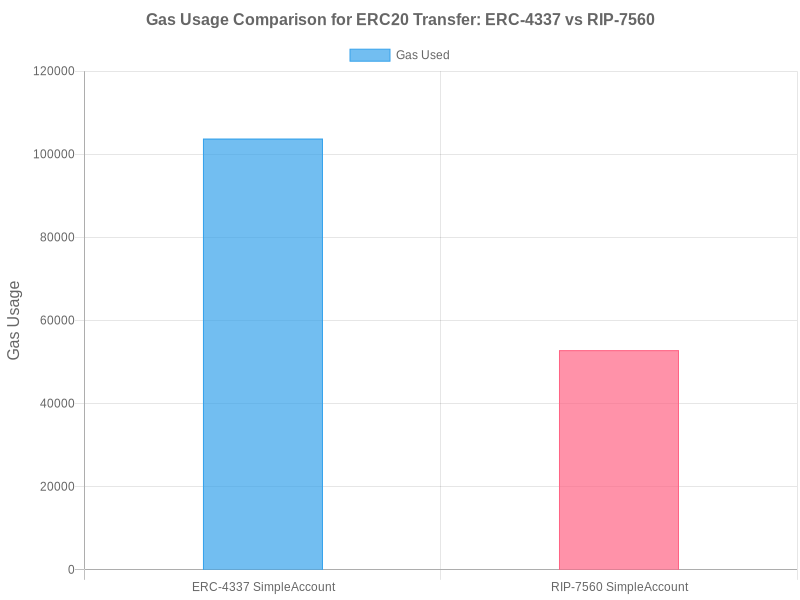
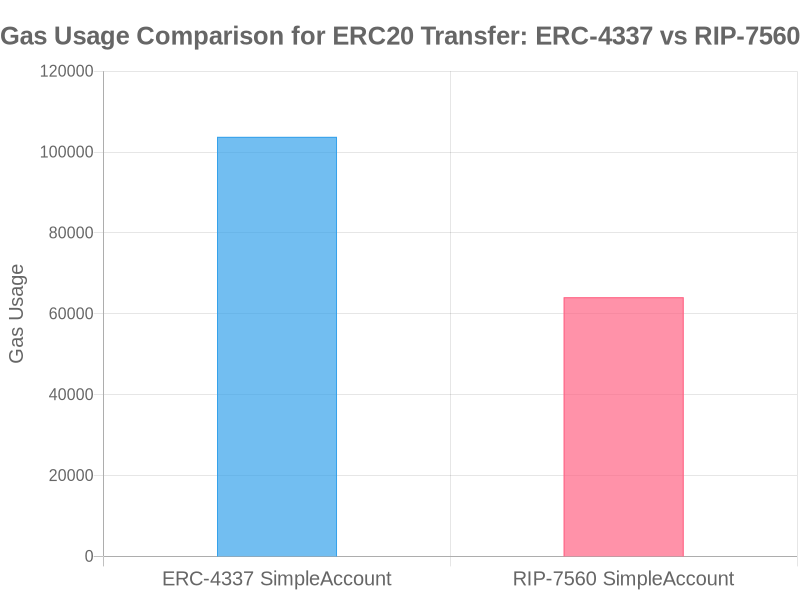
feat: adjust graph settings

diff --git a/scripts/graph/index.ts b/scripts/graph/index.ts
@@ -37,6 +37,9 @@ async function drawGraph(filePath: string, name: string) {
     const labels = Object.keys(jsonData);
     const data = Object.values(jsonData).map(Number);
 
+    console.log('Labels: ', labels);
+    console.log('Data: ', data);
+
     // Create a new QuickChart instance
     const chart = new QuickChart();
     chart.setWidth(800);
@@ -50,7 +53,6 @@ async function drawGraph(filePath: string, name: string) {
             labels: labels,
             datasets: [
                 {
-                    label: 'Gas Used',
                     data: data,
                     backgroundColor: ['rgba(54, 162, 235, 0.7)', 'rgba(255, 99, 132, 0.7)'],
                     borderColor: ['rgba(54, 162, 235, 1)', 'rgba(255, 99, 132, 1)'],
@@ -63,20 +65,30 @@ async function drawGraph(filePath: string, name: string) {
             title: {
                 display: true,
                 text: `Gas Usage Comparison for ${title}: ERC-4337 vs RIP-7560`,
-                fontSize: 16,
+                fontSize: 26,
+                padding: 20,
             },
             scales: {
                 yAxes: [{
                     ticks: {
                         beginAtZero: true, 
+                        fontSize: 16,
                     },
                     scaleLabel: {
                         display: true,
                         labelString: 'Gas Usage',
-                        fontSize: 16,
+                        fontSize: 20,
                     }
                 }],
+                xAxes: [{
+                    ticks: {
+                        fontSize: 20,
+                    },
+                }],
             },
+            legend: {
+                display: false,
+            }
         },
     });
     const chartImageBuffer = await chart.toBinary();
